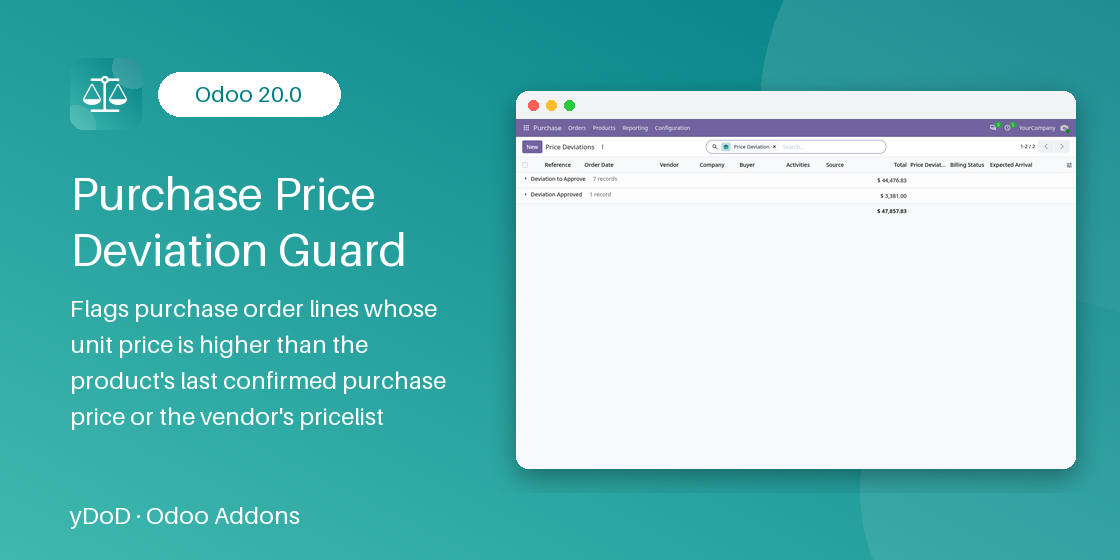
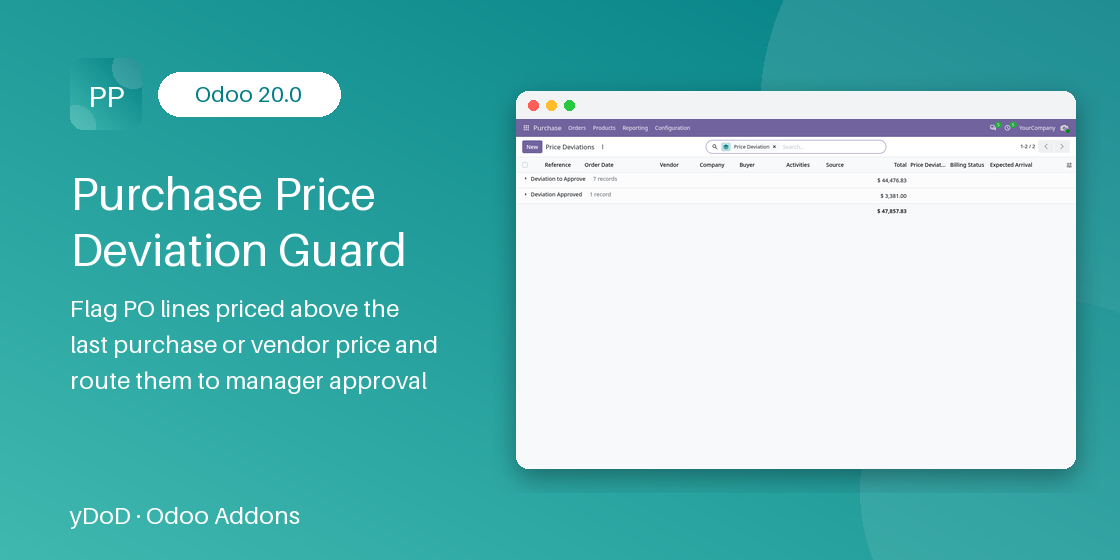
Store visuals: animated demo as the Odoo Apps cover

diff --git a/ydod_purchase_price_deviation_check/static/description/index.html b/ydod_purchase_price_deviation_check/static/description/index.html
@@ -16,15 +16,24 @@
     </div>
 </section>
 <!-- oaa:showcase:start -->
-<section style="padding:40px 16px;text-align:center">
-  <h2 style="font-size:30px;font-weight:700;margin-bottom:24px">See it in action</h2>
-    <div style="margin:28px auto;max-width:1100px">
-      <img src="screenshot_1.png" alt="Price Deviations" style="width:100%;border-radius:10px;box-shadow:0 6px 24px rgba(0,0,0,.15)"/>
-      <p style="margin-top:10px;color:#6c757d;font-size:15px">Price Deviations</p>
+<section style="padding:56px 16px;background:linear-gradient(180deg,#017E8414 0%,#ffffff 70%)">
+  <div style="max-width:1100px;margin:0 auto;text-align:center">
+    <span style="display:inline-block;padding:6px 16px;border-radius:999px;background:#017E84;color:#fff;font-weight:700;font-size:13px;letter-spacing:.08em">SEE IT IN ACTION</span>
+    <h2 style="font-size:32px;font-weight:800;color:#1f2937;margin:16px 0 28px">Purchase Price Deviation Guard at work</h2>
+    <div style="max-width:1000px;margin:0 auto;border-radius:20px;overflow:hidden;box-shadow:0 22px 60px rgba(15,23,42,.22)">
+      <img src="demo.gif" alt="Purchase Price Deviation Guard animated demo" style="width:100%;display:block"/>
     </div>
+    <div class="row" style="margin-top:32px">
+      <div class="col-12" style="padding:12px">
+        <div style="height:100%;background:#fff;border:1px solid #eef0f4;border-radius:16px;overflow:hidden;box-shadow:0 10px 30px rgba(15,23,42,.10)">
+          <img src="screenshot_1.png" alt="Price Deviations" style="width:100%;display:block"/>
+          <div style="padding:14px 18px;font-size:15px;color:#334155;text-align:left"><span style="display:inline-block;width:26px;height:26px;line-height:26px;border-radius:13px;background:#017E84;color:#fff;text-align:center;font-weight:700;font-size:13px;margin-right:10px">1</span>Price Deviations</div>
+        </div>
+      </div>
+    </div>
+  </div>
 </section>
 <!-- oaa:showcase:end -->
-
 
 <section class="container" style="padding: 40px 16px; font-family: 'Segoe UI', Roboto, Helvetica, Arial, sans-serif; color: #2d3142;">
     <h2 style="text-align: center; font-weight: 700; color: #1f2a44; margin-bottom: 32px;">Key Features</h2>

diff --git a/ydod_purchase_price_deviation_check/__manifest__.py b/ydod_purchase_price_deviation_check/__manifest__.py
@@ -26,7 +26,9 @@
         'views/product_category_views.xml',
         'views/purchase_order_views.xml'],
     'demo': ['demo/price_deviation_demo.xml'],
-    'images': ['static/description/banner.png', 'static/description/screenshot_1.png'],
+    'images': [   'static/description/demo.gif',
+        'static/description/banner.png',
+        'static/description/screenshot_1.png'],
     'installable': True,
     'application': False,
 }
